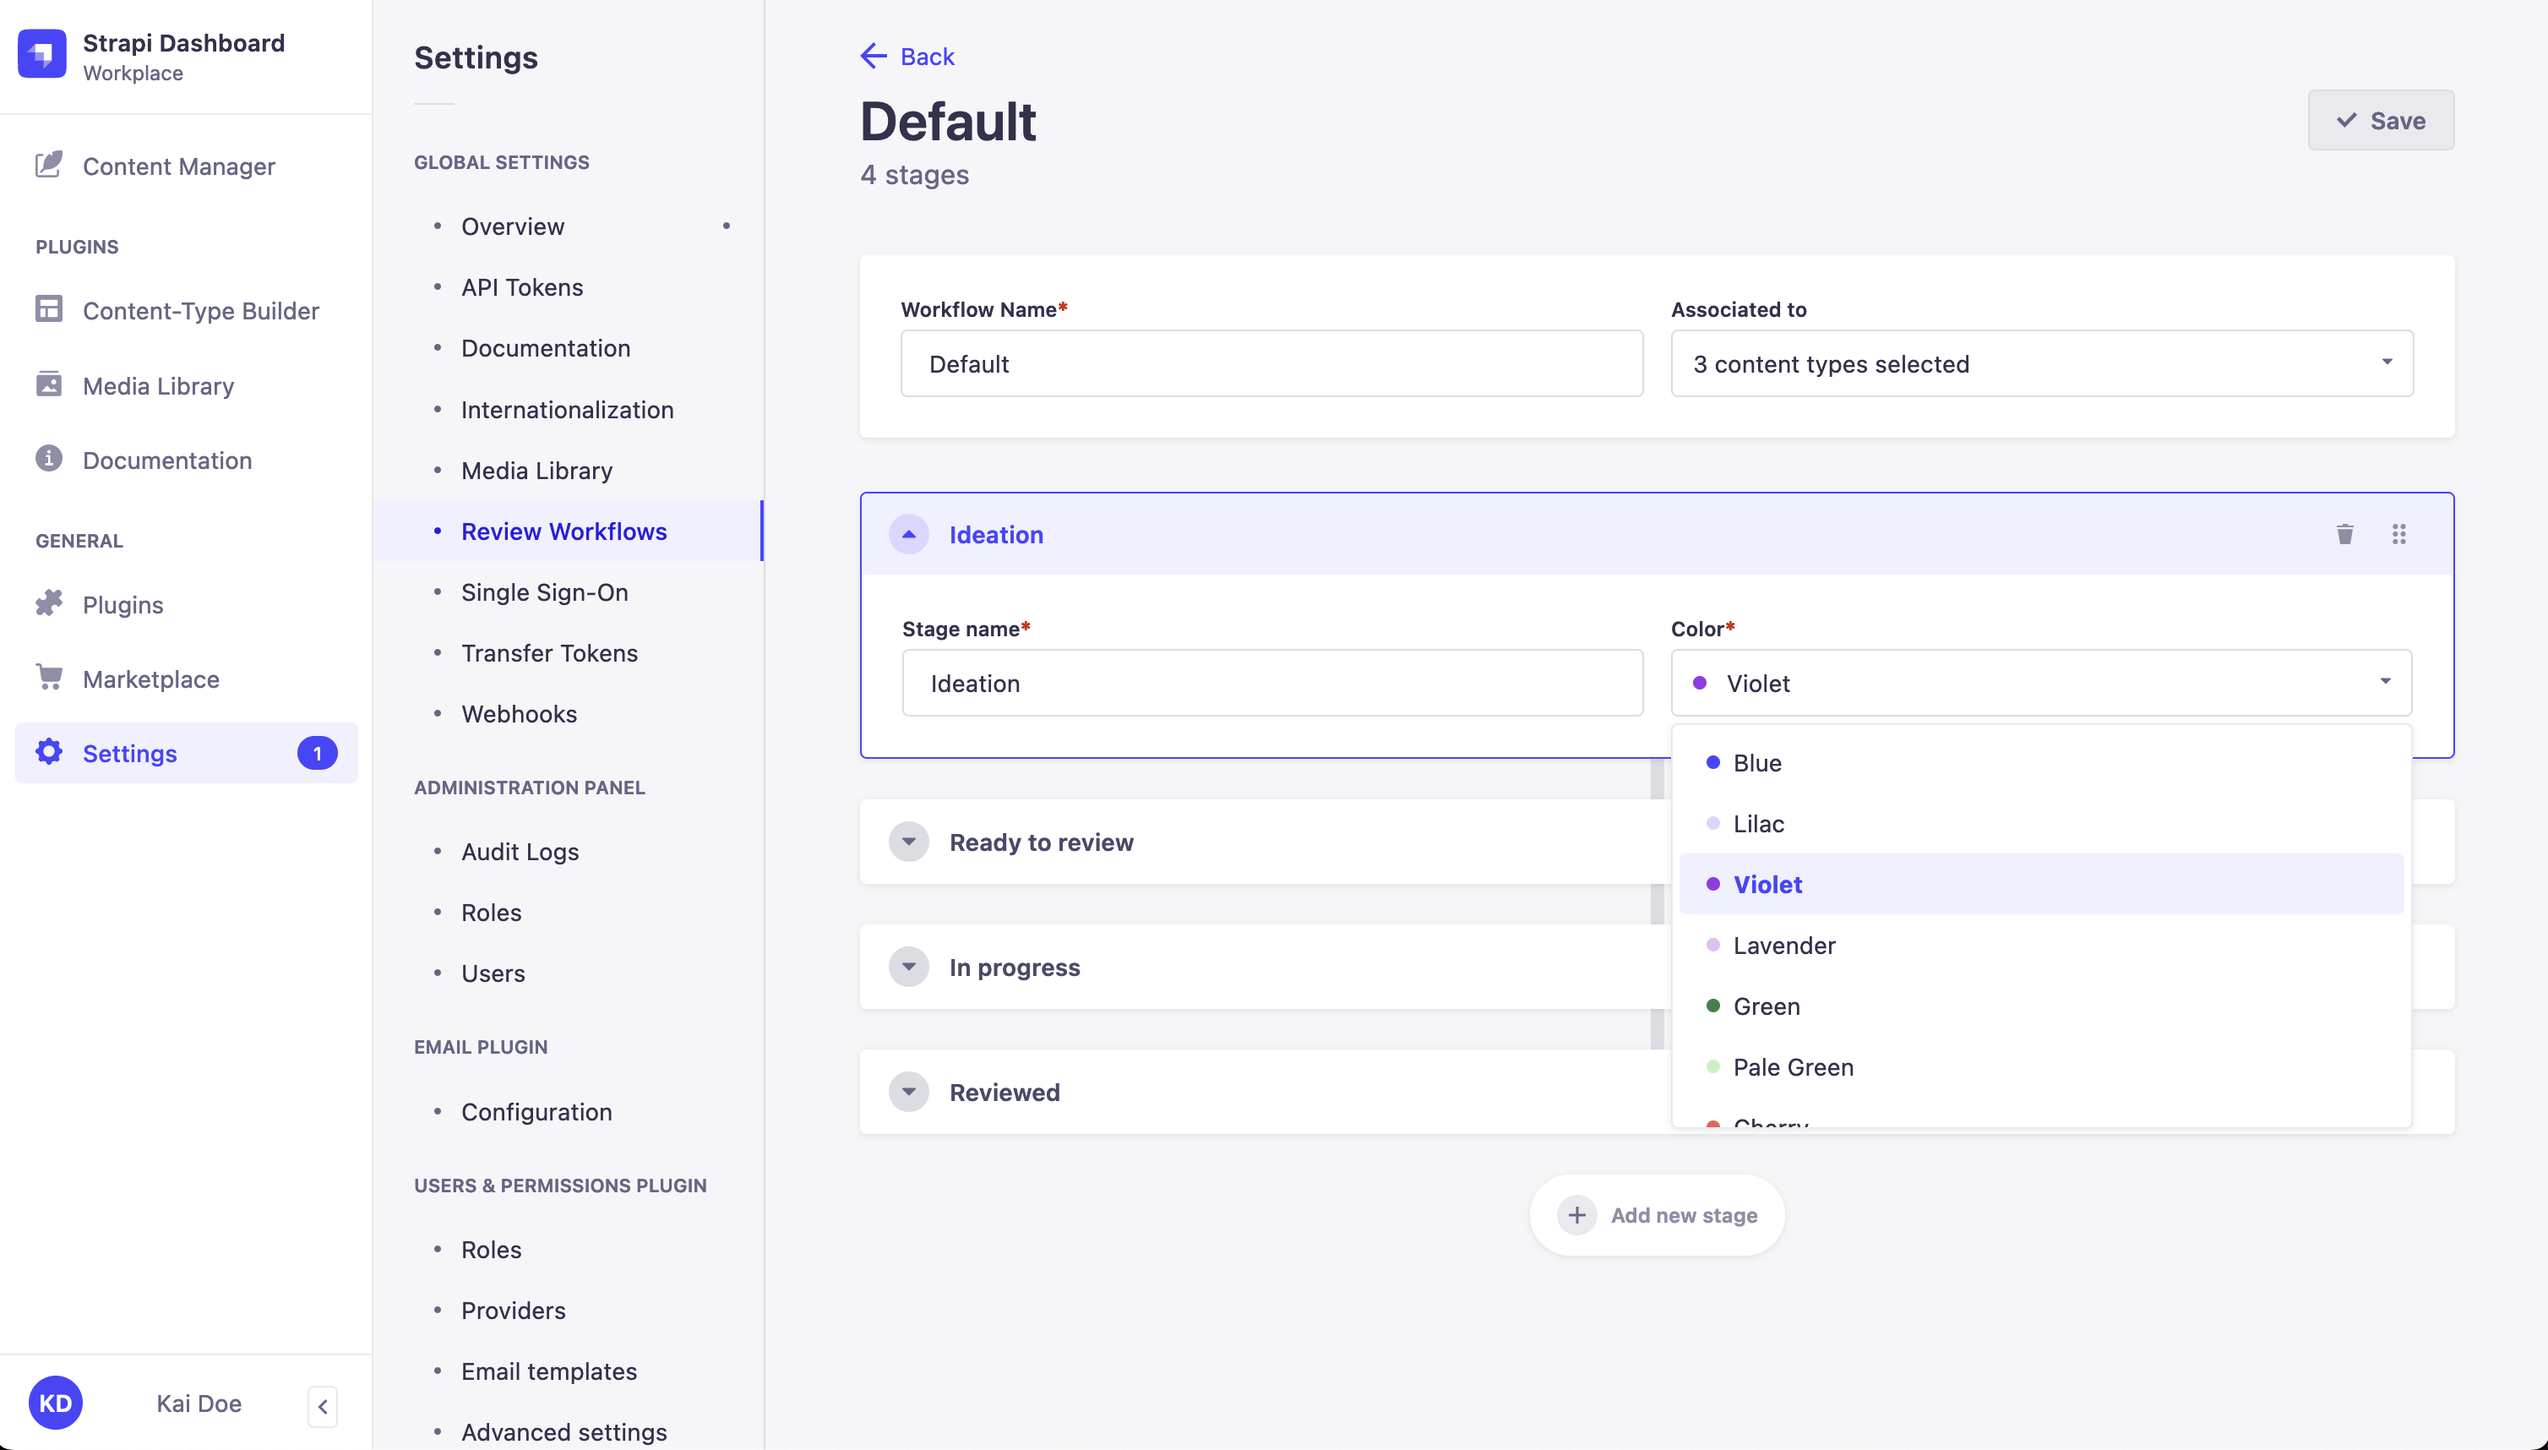
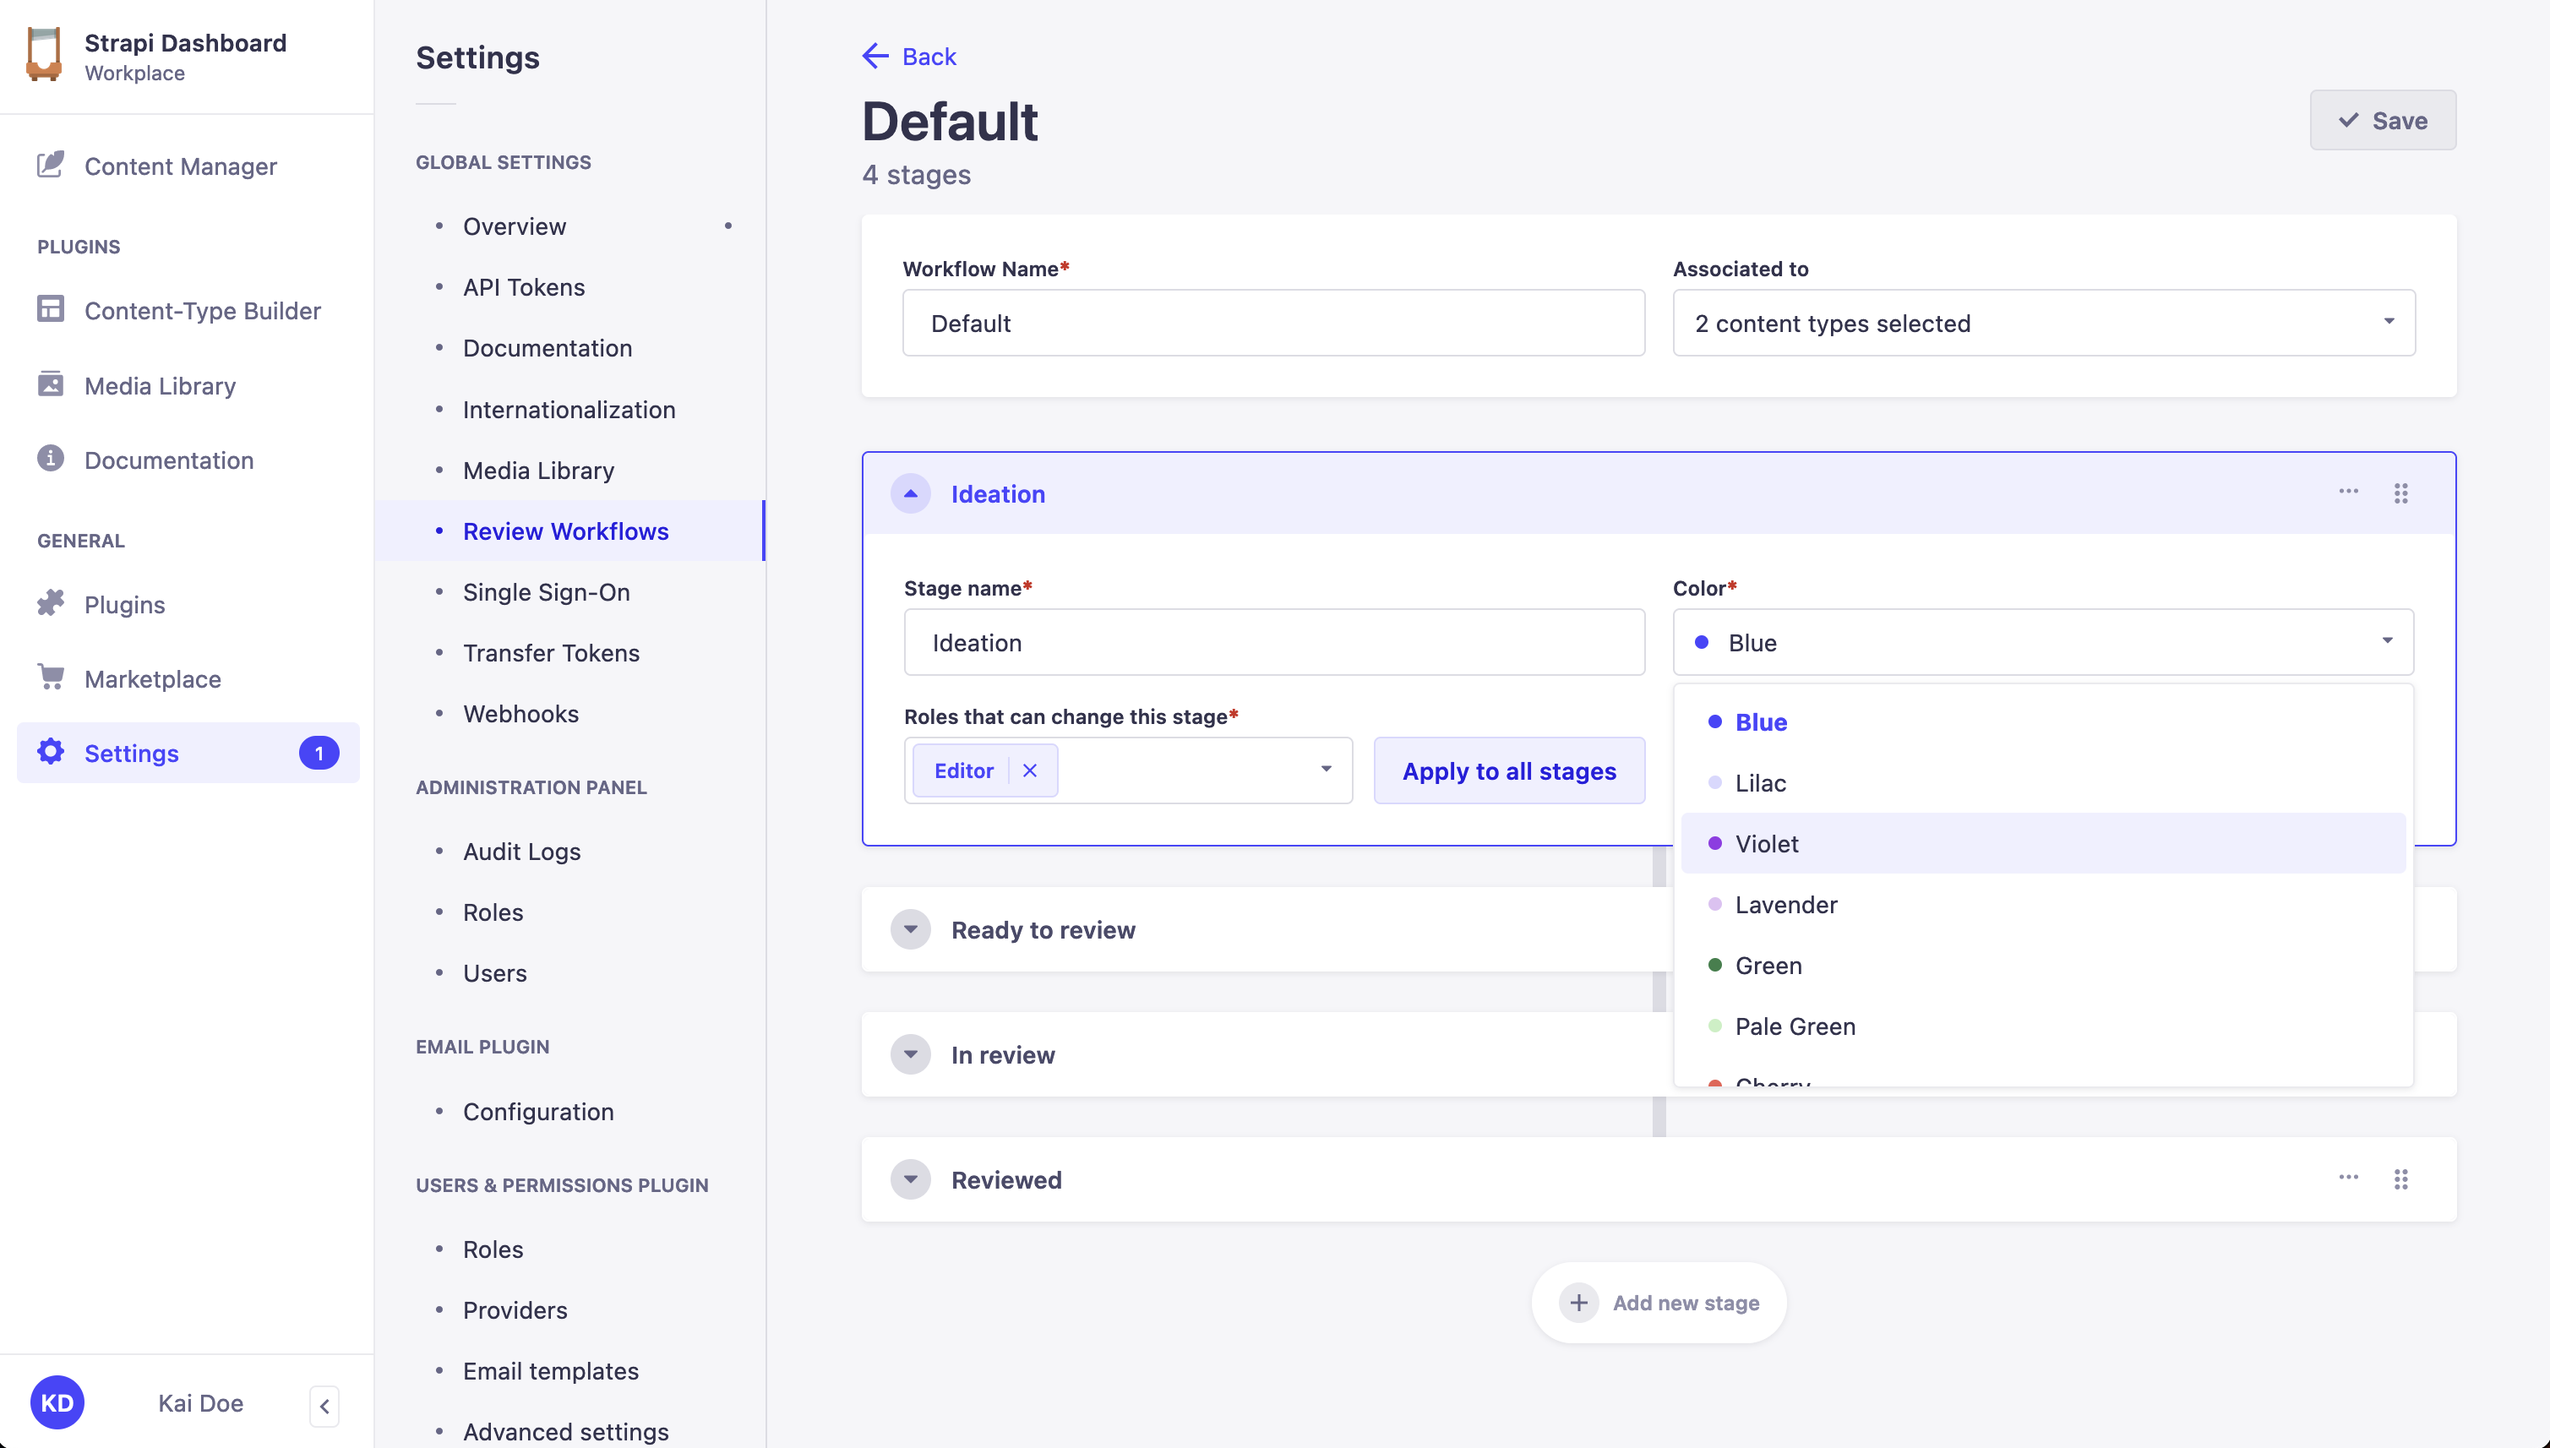
Update User Guide for Review Workflows to include RBAC for stages (#1840)
* feat(review-workflows): update user-docs to include RBAC for stages

* fix(review-workflows): remove read permission restrictions

diff --git a/docusaurus/docs/user-docs/settings/review-workflows.md b/docusaurus/docs/user-docs/settings/review-workflows.md
@@ -25,11 +25,6 @@ The default workflow is configured to have 4 stages: To do, In progress, Ready t
 
 Before being available in the [Content Manager](/user-docs/content-manager/reviewing-content), review workflows must be configured from ![Settings icon](/img/assets/icons/settings.svg) *Settings > Global settings > Review Workflows*. The Review workflows settings are only available to users with the Super Admin role by default. Other roles must be granted the **Review workflows** permissions. See [Users, Roles, & Permissions](/user-docs/users-roles-permissions) for more information.
 
-:::note
-Currently all roles using Review Workflows in the Content Manager need to have at least "Read" permission for workflow settings, defined in *Settings > Administration Panel > Roles > Edit a role > Settings > Review Workflows*.
-:::
-
-
 ## Creating or editing a workflow
 
 <ThemedImage
@@ -47,7 +42,7 @@ Currently all roles using Review Workflows in the Content Manager need to have a
     | -------------- | ------------------------------------------------------------------------ |
     | Name           | Write a unique name of workflow.                                         |
     | Content-Types  | (optional) Assign this workflow to one or more existing content-types.   |
-    | Stages         | Add review stages (see [Adding a new stage](#adding-a-new-stage)). |
+    | Stages         | Add review stages (see [Adding a new stage](#adding-a-new-stage)).       |
 
 3. Click on the **Save** button. The new workflow will be displayed in the list-view and for every content-type assigned.
 
@@ -63,15 +58,27 @@ To add a new stage in the review workflows:
 1. Click on the **Add new stage** button.
 2. Write the *Stage name*.
 3. Select a *Color*.
-3. Click on the **Save** button.
+4. Select *Roles* that can change the stage, if the entity is currently in that review stage.
+5. Click on the **Save** button.
 
 By default new stages are appended, but they can be reordered anytime using the ![drag & drop](/img/assets/icons/drag.svg) button.
+
+:::tip
+To set up roles for each stage, you can either click "Apply to all stages" to apply the current roles to all other stages of the workflow or use "Duplicate stage" of the stage context menu.
+:::
+
+
+### Duplicating a stage
+
+1. Click **Duplicate Stage** in the context menu of the stage.
+2. Change the name of the duplicated stage.
+2. Click on the **Save** button.
 
 
 ### Deleting a stage
 
-1. Click on the ![delete button](/img/assets/icons/delete.svg) **Delete** button next to the stage you want to remove.
-2. Click on the **Save** button: a confirmation modal will appear to confirm the deletion.
+1. Click ![Delete](/img/assets/icons/delete.svg) in the context menu of the stage.
+2. Click on the **Save** button: a confirmation modal will appear to confirm the deletion, in case the stage has previously been saved.
 
 If you delete a stage that has pending reviews, the reviews will be moved to first stage in the workflow. Every workflow needs to
 contain at least one stage and therefore it is not possible to delete the last stage.
